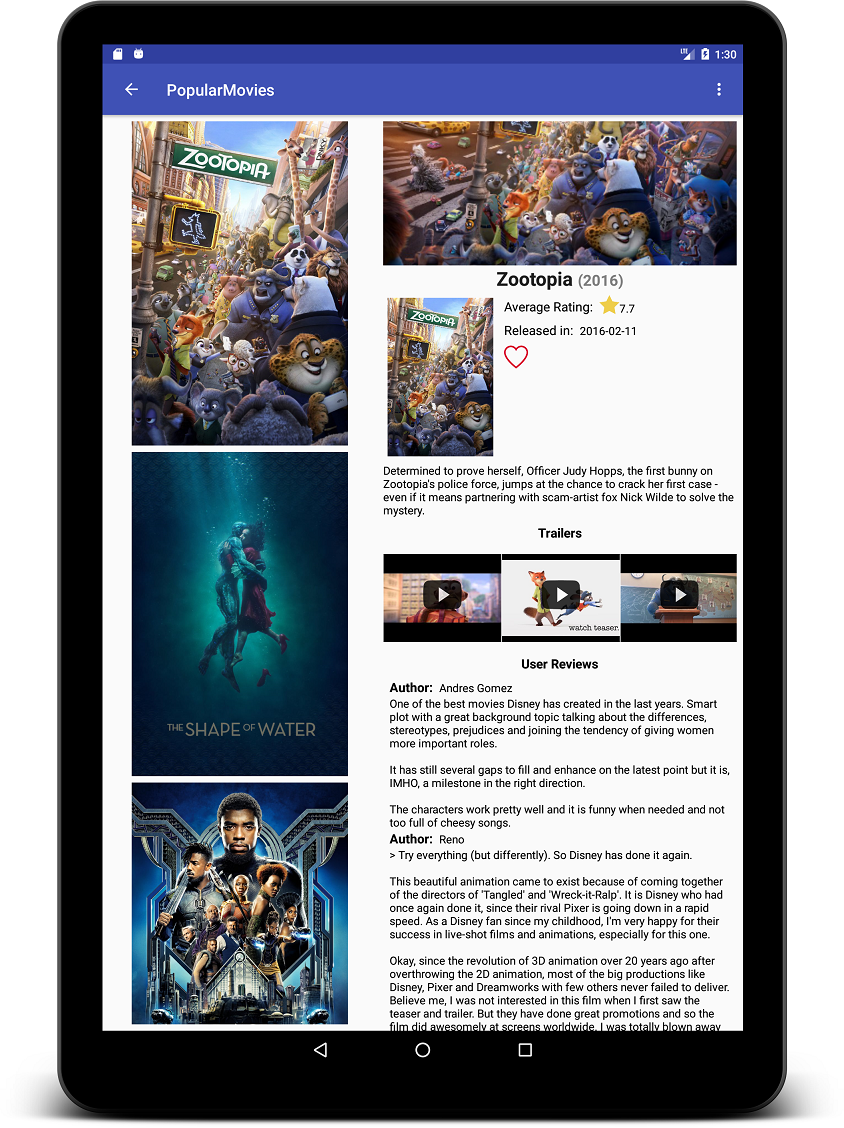
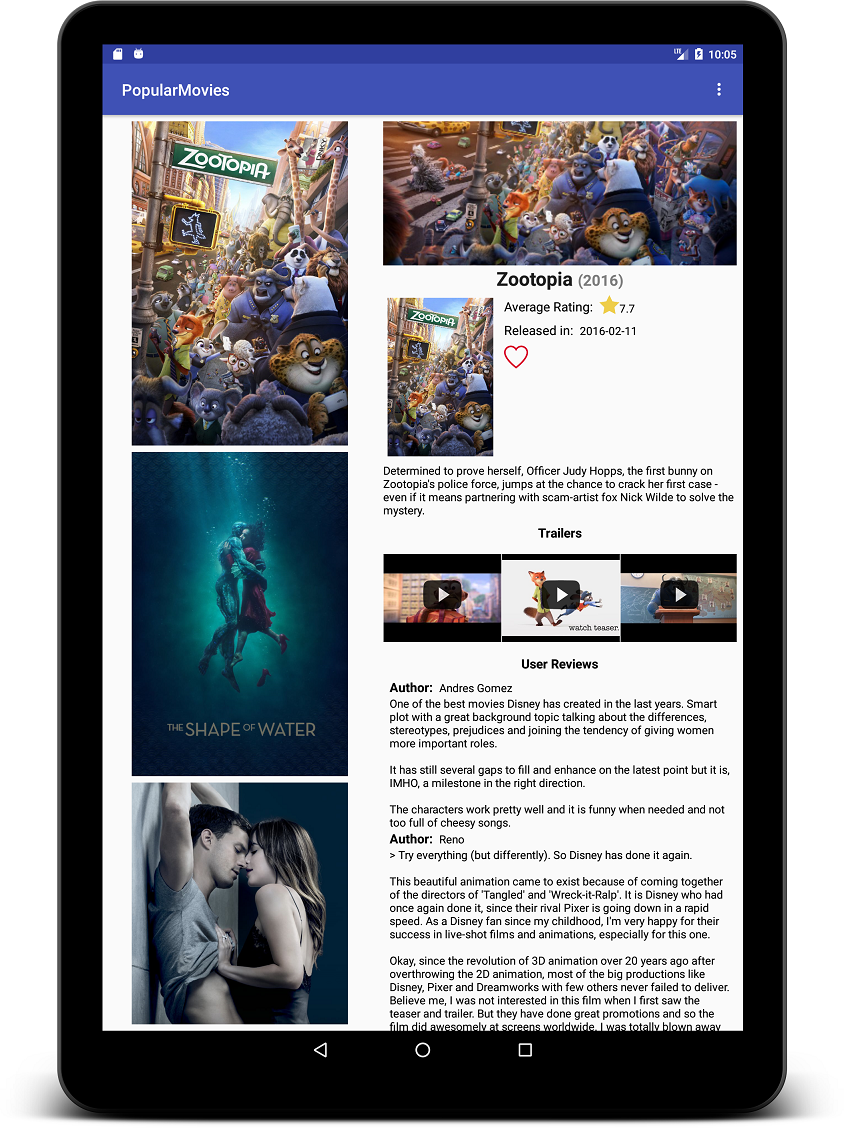
Fixes action bar button on tablet mode.

Changed region(s): [[0.154, 0.6826, 0.4313, 0.9309], [0.154, 0.0621, 0.3389, 0.0931], [0.8009, 0.031, 0.8626, 0.0621]]

diff --git a/PopularMovies_2/app/src/main/java/com/example/android/popularmovies/MovieDetailFragment.java b/PopularMovies_2/app/src/main/java/com/example/android/popularmovies/MovieDetailFragment.java
@@ -39,6 +39,7 @@ import android.view.View;
 import android.view.ViewGroup;
 import android.view.WindowManager;
 import android.widget.CompoundButton;
+import android.widget.GridView;
 import android.widget.TextView;
 import android.widget.Toast;
 
@@ -79,6 +80,7 @@ public class MovieDetailFragment extends Fragment implements
     private Uri pictureUri;
     private String movieId, coverImageUri, posterImageUri;
     private List<Movie> imagesUrl;
+
     private Movie myMovie;
 
 
@@ -145,7 +147,6 @@ public class MovieDetailFragment extends Fragment implements
         mBinding = DataBindingUtil.inflate(
                 inflater, R.layout.fragment_movie_detail, container, false);
 
-
         View rootView = mBinding.getRoot();
 
         if (!isOnline()) {
@@ -194,8 +195,10 @@ public class MovieDetailFragment extends Fragment implements
             mBinding.fragmentMovieLayout.setVisibility(View.VISIBLE);
         }
 
+        //Enable HomeAsUpEnable only if we're not on a tablet.
+        GridView movieGrid = (GridView) getActivity().findViewById(R.id.gridView);
         ActionBar actionBar = ((AppCompatActivity) getActivity()).getSupportActionBar();
-        if (actionBar != null) {
+        if (actionBar != null && movieGrid == null) {
             actionBar.setDisplayHomeAsUpEnabled(true);
         }
 
@@ -286,6 +289,7 @@ public class MovieDetailFragment extends Fragment implements
                 mBinding.trailerInclude.rvTrailers.setVisibility(View.GONE);
                 mBinding.reviewLayout.reviewsLabel.setVisibility(View.GONE);
                 mBinding.reviewLayout.rvReviews.setVisibility(View.GONE);
+                mBinding.emptyDetails.setVisibility(View.GONE);
                 mBinding.fragmentMovieLayout.setVisibility(View.VISIBLE);
             }
         }

diff --git a/PopularMovies_2/app/src/main/java/com/example/android/popularmovies/MovieDetailActivity.java b/PopularMovies_2/app/src/main/java/com/example/android/popularmovies/MovieDetailActivity.java
@@ -20,5 +20,7 @@ public class MovieDetailActivity extends AppCompatActivity {
             detailFragment.setArguments(bundle);
             getSupportFragmentManager().beginTransaction().replace(R.id.container, detailFragment).commit();
         }
+
+
     }
 }
